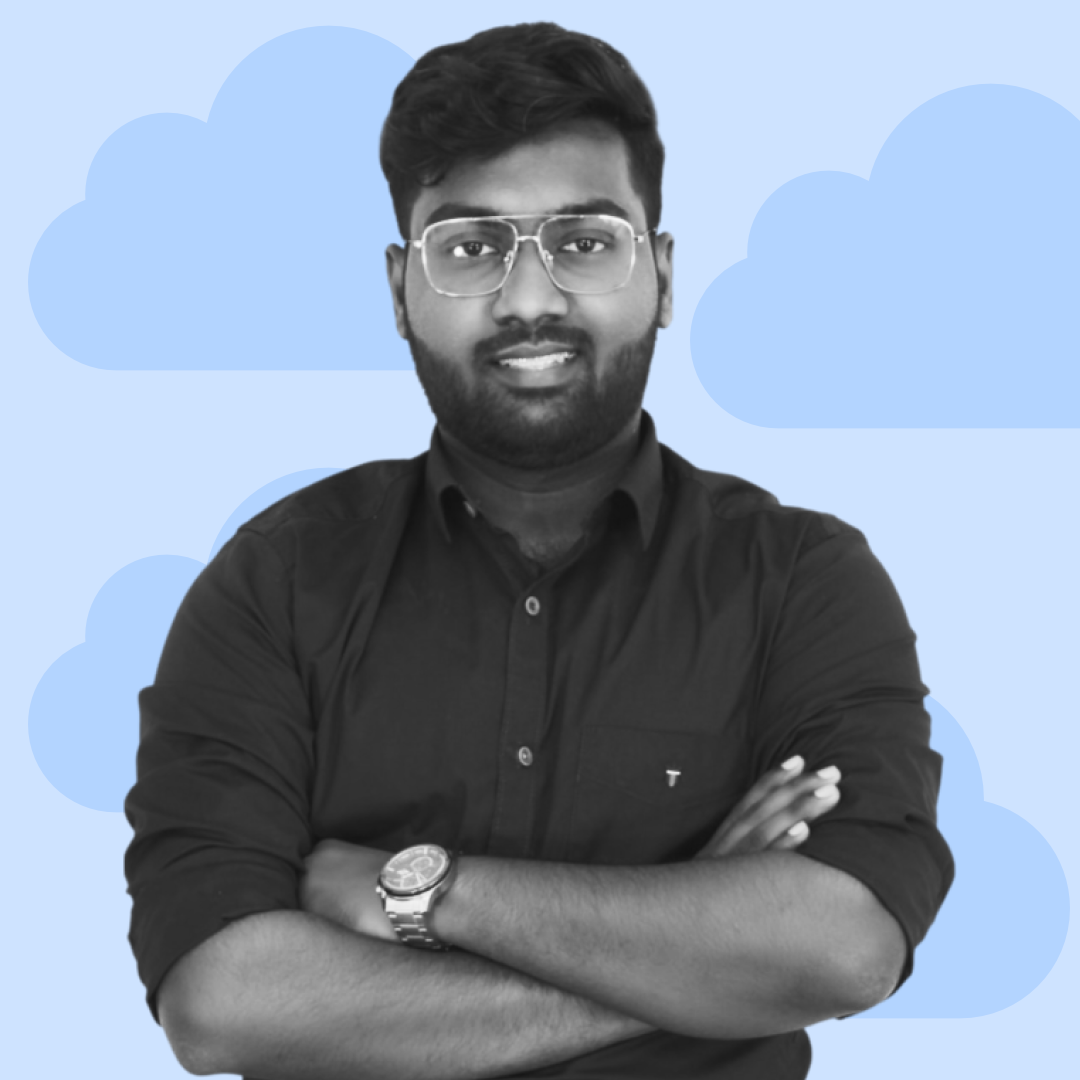
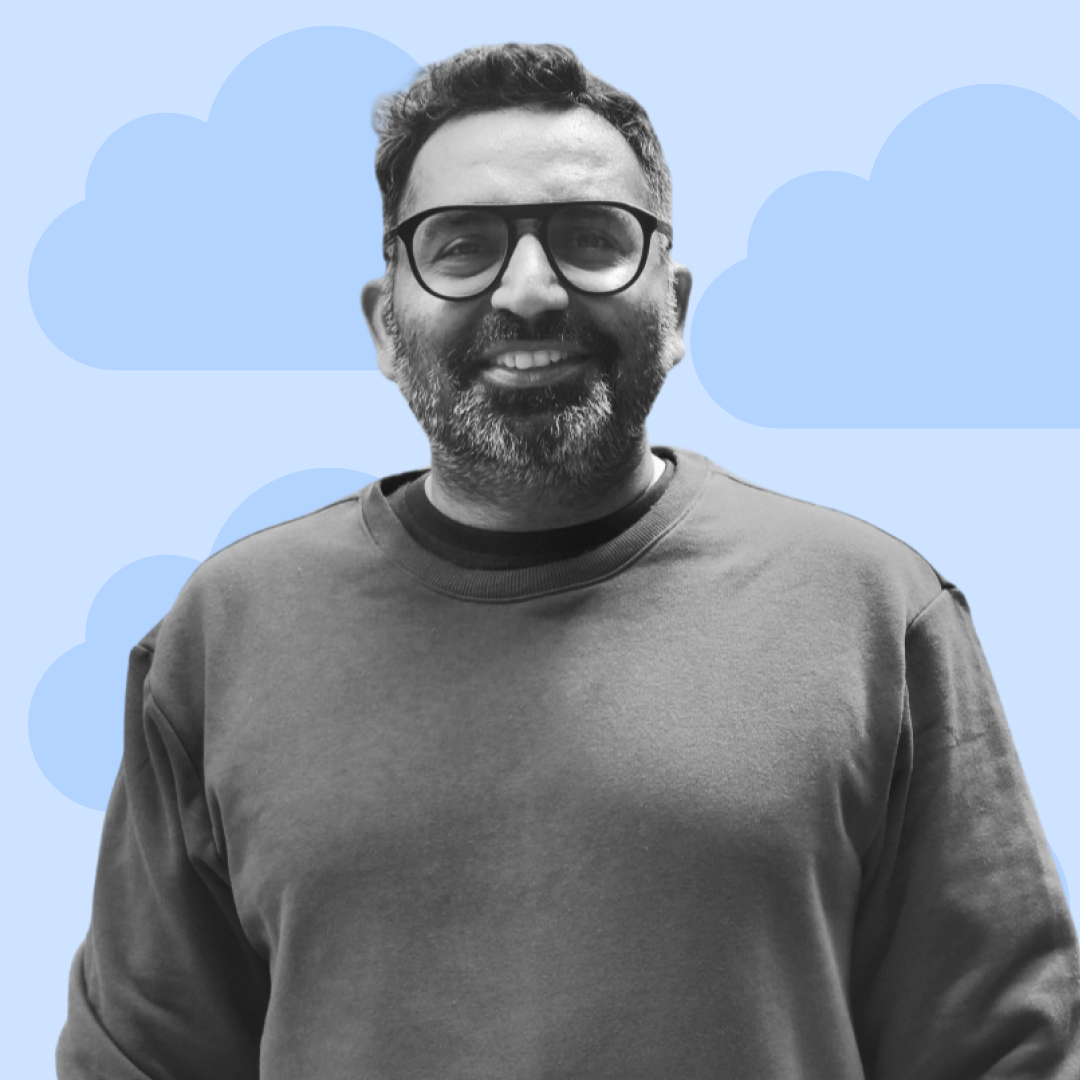
Update about page

diff --git a/about.html b/about.html
@@ -122,49 +122,62 @@
                 <div class="col-lg-4 teamProfile">
                     <div class="socialHandle">
                         <img src="Assets/team1.png" alt="">
-                        <a class="btn Linkdin" href="https://www.linkedin.com/in/rajendra-mehta/" target="_blank">
-                            <span class="fab fa-linkedin" style="font-size: 36px; color: #fff;"></span></a>
-                            <h1>Prajwal Gunjikar</h1>
-                    <p>Team Lead</p>
+                        <a class="btn Linkdin" href="https://www.rajendramehta.com/" target="_blank">
+                            <span class="fas fa-globe" style="font-size: 36px; color: #fff;"></span></a>
+                            <h1>Rajendra Mehta</h1>
+                    <p>Founder & CEO</p>
                     </div>
                 </div>
                 <div class="col-lg-4 teamProfile">
                     <div class="socialHandle">
-                        <img src="Assets/team1.png" alt="">
+                        <img src="Assets/team3.png" alt="">
                         <a class="btn Linkdin" href="https://www.linkedin.com/in/rajendra-mehta/" target="_blank">
                             <span class="fab fa-linkedin" style="font-size: 36px; color: #fff;"></span></a>
-                            <h1>Prajwal Gunjikar</h1>
-                    <p>Team Lead</p>
+                            <h1>Ramesh C</h1>
+                    <p>Customer lead</p>
                     </div>
                 </div>
                 <div class="col-lg-4 teamProfile">
                     <div class="socialHandle">
-                        <img src="Assets/team1.png" alt="">
+                        <img src="Assets/team4.png" alt="">
                         <a class="btn Linkdin" href="https://www.linkedin.com/in/rajendra-mehta/" target="_blank">
                             <span class="fab fa-linkedin" style="font-size: 36px; color: #fff;"></span></a>
-                            <h1>Prajwal Gunjikar</h1>
-                    <p>Team Lead</p>
+                            <h1>Rahul Sharma</h1>
+                    <p>ML Engineer</p>
                     </div>
                 </div>
             </div>
             <div class="row profile">
                 <div class="col-lg-4 teamProfile">
                     <div class="socialHandle">
-                        <img src="Assets/team1.png" alt="">
+                        <img src="Assets/team2.png" alt="">
                         <a class="btn Linkdin" href="https://www.linkedin.com/in/rajendra-mehta/" target="_blank">
                             <span class="fab fa-linkedin" style="font-size: 36px; color: #fff;"></span></a>
-                            <h1>Prajwal Gunjikar</h1>
-                    <p>Team Lead</p>
+                            <h1>Aayushi Raval</h1>
+                    <p>Consultant</p>
                     </div>
                 </div>
                 <div class="col-lg-4 teamProfile">
                     <div class="socialHandle">
-                        <img src="Assets/team1.png" alt="">
+                        <img src="Assets/team5.png" alt="">
                         <a class="btn Linkdin" href="https://www.linkedin.com/in/rajendra-mehta/" target="_blank">
                             <span class="fab fa-linkedin" style="font-size: 36px; color: #fff;"></span></a>
                             <h1>Prajwal Gunjikar</h1>
-                    <p>Team Lead</p>
+                    <p>Business Analyst</p>
                     </div>
+                </div>
+            </div>
+        </div>
+    </section>
+
+    <section class="cta" style="background-color: #F0F2F5">
+        <div class="container-fluid">
+            <div class="row bookCta">
+                <div class="col-lg-8 mt-2">
+                    <h3>Overcome your obstacles.<br>Book an appointment today!!</h3>
+                </div>
+                <div class="col-lg-4">
+                    <a href="#contact" class="book">Book Appointment</a>
                 </div>
             </div>
         </div>

diff --git a/aboutstyle.css b/aboutstyle.css
@@ -213,6 +213,40 @@ a {
     font-weight: 400;
     margin-bottom: 36px;
 }
+.bookCta{
+    display: flex;
+    justify-content: center;
+    align-items: center;
+    text-align: center;
+    margin-top: 28px;
+    padding: 30px 0px;
+}
+.bookCta h3{
+    font-size: 56px;
+    line-height: 70px;
+    font-weight: 600;
+    padding:  0px 56px ;
+    color:var(--text1);
+}
+
+.book {
+    border: none;
+    width: 200px;
+    height: 48px;
+    font-size: 16px;
+    font-weight: 600;
+    background-color: var(--primary1);
+    color: var(--text2);
+    display: flex;
+    align-items: center;
+    justify-content: center;
+    margin-left: calc(50% - 100px);
+}
+
+.book:hover {
+    background-color:var(--secondary1);
+    color: var(--text2);
+}
 
 
 
@@ -299,6 +333,15 @@ a {
 .about_margin {
     margin-left: 0px;
 }
+.bookCta h3{
+    font-size: 28px;
+    line-height: 36px;
+    padding: 4px;
 
+}
+.bookCta{
+    margin-top: 0px;
+    padding: 16px;
+}
 
 }

diff --git a/navstyle.css b/navstyle.css
@@ -92,7 +92,7 @@ footer {
     padding: 0px 23px;
     color: var(--text2);
     text-align: center;
-    margin-top: 12px;
+    margin-top: 0px;
 }
 
 footer span {
